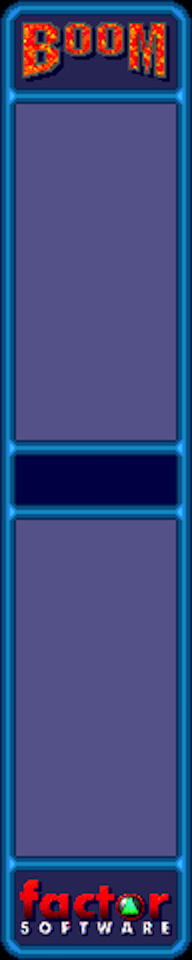
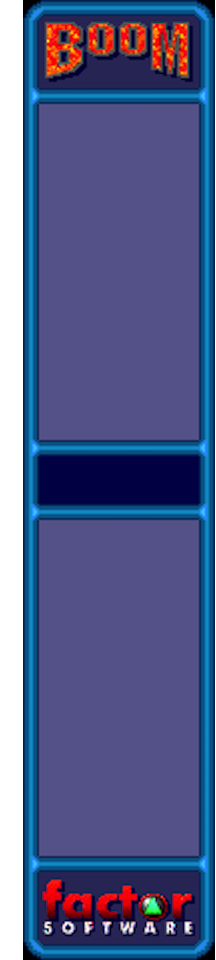
WIP: Info panel.

diff --git a/PlayerInfoNode.swift b/PlayerInfoNode.swift
@@ -9,7 +9,6 @@
 import SpriteKit
 
 class PlayerInfoNode: SKShapeNode {
-    let nameNode = SKLabelNode()
     let healthNode = SKLabelNode()
     let livesNode = SKLabelNode()
     let scoreNode = SKLabelNode()
@@ -17,22 +16,17 @@ class PlayerInfoNode: SKShapeNode {
     init(size: CGSize, text: String) {
         super.init()
         
+        self.path = CGPathCreateWithRect(CGRect(origin: CGPointZero, size: size), nil)
+        
         let x = size.width / 2
         
         let yMargin: CGFloat = 10
         let rowHeight = (size.height - (yMargin * 2)) / 4
         
-        self.nameNode.text = text
-        self.nameNode.fontName = "TamilSangamMN-Bold"
-        self.nameNode.fontSize = 35
-        var y = size.height - yMargin
-        self.nameNode.position = CGPoint(x: x, y: y)
-        addChild(self.nameNode)
-        
         self.livesNode.text = "Lives: 0"
         self.livesNode.fontName = "TamilSangamMN"
         self.livesNode.fontSize = 35
-        y -= rowHeight
+        var y = size.height - yMargin
         self.livesNode.position = CGPoint(x: x, y: y)
         addChild(self.livesNode)
         
@@ -50,11 +44,13 @@ class PlayerInfoNode: SKShapeNode {
         self.scoreNode.fontSize = 35
         addChild(self.scoreNode)
         
-        self.path = CGPathCreateWithRect(CGRect(origin: CGPointZero, size: size), nil)
-
         self.antialiased = false
-        self.lineWidth = 0
-        self.blendMode = .Replace
+        self.lineWidth = 4
+        self.strokeColor = SKColor.redColor()
+        self.fillColor = SKColor.blueColor()
+        self.blendMode = .Add
+        
+        self.zPosition = 15
     }
     
     func updateLives(lives: Int) {
@@ -72,6 +68,6 @@ class PlayerInfoNode: SKShapeNode {
     }
     
     required init?(coder aDecoder: NSCoder) {
-        return nil
+        super.init(coder: aDecoder)
     }
 }

diff --git a/PanelNode.swift b/PanelNode.swift
@@ -17,26 +17,28 @@ class PanelNode: SKSpriteNode {
     
     init(size: CGSize) {
         let yMargin: CGFloat = 100
-        let infoNodeSize = CGSizeMake(size.width, (size.height - (yMargin * 2)) / 2 - 100)
+        let infoNodeSize = CGSize(width: 225, height: 380)
         self.p1_infoNode = PlayerInfoNode(size: infoNodeSize, text: "Player 1")
         self.p2_infoNode = PlayerInfoNode(size: infoNodeSize, text: "Player 2")
         
-        super.init(texture: nil, color: SKColor.blackColor(), size: size)
+        let texture = SKTexture(imageNamed: "Panel.png")
+        super.init(texture: texture, color: SKColor.blackColor(), size: size)
         
+        self.timeNode.zPosition = 10
         addChild(self.timeNode)
         self.timeNode.fontName = "TamilSangamMN-Bold"
         self.timeNode.fontSize = 40
         self.timeNode.position = CGPoint(x: size.width / 2, y: size.height / 2 - timeNode.frame.height / 2)
         
         addChild(self.p1_infoNode)
-        self.p1_infoNode.position = CGPoint(x: 0, y: size.height - infoNodeSize.height - yMargin)
+        self.p1_infoNode.position = CGPoint(x: 55, y: 115)
         
         addChild(self.p2_infoNode)
-        self.p2_infoNode.position = CGPoint(x: 0, y: yMargin)
+        self.p2_infoNode.position = CGPoint(x: 55, y: 590)
         
         self.anchorPoint = CGPointZero
         self.position = CGPointZero
-        self.blendMode = .Replace
+//        self.blendMode = .Replace
     }
     
     required init?(coder aDecoder: NSCoder) {

diff --git a/NSFileManager+Extensions.swift b/NSFileManager+Extensions.swift
@@ -13,8 +13,8 @@ extension NSFileManager {
         case CreateBundleSupportDirectoryFailed
     }
     
-    var documentsDirectoryPath: String {
-        let paths = NSSearchPathForDirectoriesInDomains(.DocumentDirectory, .UserDomainMask, true)
+    var cachesDirectoryPath: String {
+        let paths = NSSearchPathForDirectoriesInDomains(.CachesDirectory, .UserDomainMask, true)
         let path = paths.first!
         return path
     }
@@ -29,7 +29,7 @@ extension NSFileManager {
         var path: String?
         
         if let bundleIdentifier = NSBundle.mainBundle().bundleIdentifier {
-            path = applicationSupportDirectoryPath.stringByAppendingPathComponent(bundleIdentifier)
+            path = cachesDirectoryPath.stringByAppendingPathComponent(bundleIdentifier)
             
             let fileManager = NSFileManager.defaultManager()
             var isDirectory: ObjCBool = false

diff --git a/Bomberman-OSX/GameScene.swift b/Bomberman-OSX/GameScene.swift
@@ -105,12 +105,9 @@ class GameScene: SKScene {
         if let delegate = self.gameSceneDelegate {
             let playerAction = playerActionForKeyCode(theEvent.keyCode)
             
-            if let player = playerAction.player {
-                if let action = playerAction.action {
-                    if action != .DropBomb {
-                        delegate.gameScenePlayerDidStopAction(self, player: player, action: action)
-                    }
-                }
+            if let player = playerAction.player, let action = playerAction.action
+                where action != .DropBomb {
+                delegate.gameScenePlayerDidStopAction(self, player: player, action: action)
             }
         }
     }

diff --git a/CpuControlComponent.swift b/CpuControlComponent.swift
@@ -34,7 +34,7 @@ class CpuControlComponent: GKComponent {
                     self.attackDelay -= seconds
                     
                     if self.attackDelay < 0 {
-                        if let configComponent = self.entity?.componentForClass(ConfigComponent) {
+                        if let configComponent = creature.componentForClass(ConfigComponent) {
                             if let projectileName = configComponent.projectile {
                                 if playerInRangeForRangedAttack() {
                                     creature.attack()
